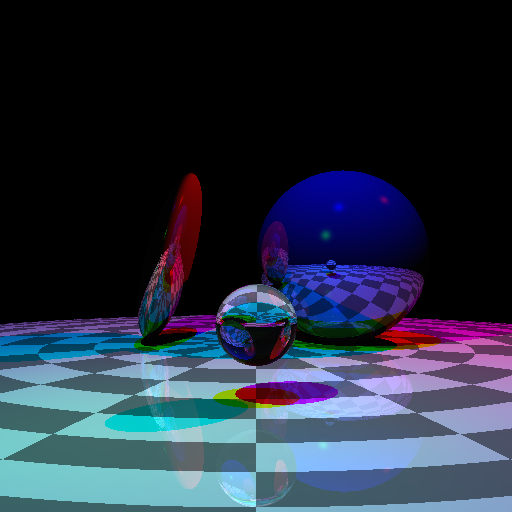
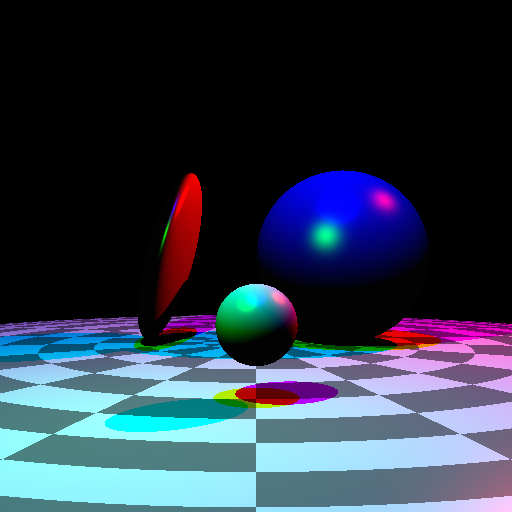
Updated `Material::get_reflected_energy` to use the proper Phong reflection model.

diff --git a/src/scene/mod.rs b/src/scene/mod.rs
@@ -42,8 +42,8 @@ impl Scene {
     }
 }
 
-fn lambert(light_dir: &Vector3, normal: &Vector3, color: &Color) -> Color {
-    light_dir.dot(normal) * color
+fn lambert(light_dir: &Vector3, normal: &Vector3, light: &Color, surface: &Color) -> Color {
+    light_dir.dot(normal) * light * surface
 }
 
 fn phong(
@@ -51,15 +51,16 @@ fn phong(
     eye_dir: &Vector3,
     light_dir: &Vector3,
     normal: &Vector3,
-    color: &Color,
+    light: &Color,
+    surface: &Color,
 ) -> Color {
     let h = (eye_dir.norm() + light_dir.norm()).norm();
     let m_dot_h = normal.dot(&h);
 
     if m_dot_h < 0. {
-        0. * color
+        Color::black()
     } else {
-        m_dot_h.powf(power) * color
+        m_dot_h.powf(power) * light * surface
     }
 }
 
@@ -139,15 +140,17 @@ impl Material {
         }
     }
 
+    /// Use Phong reflection model to compute the intensity of light reflected
+    /// in the direction of the eye
     pub fn get_reflected_energy(
         &self,
         incoming: &Color,
         light_dir: &Vector3,
         i: &Intersection,
     ) -> Color {
-        let diffuse = lambert(&light_dir, &i.normal, &incoming) * (self.diffuse)(i.tex_coord);
-        let specular = phong(600., &i.eye_dir, &light_dir, &i.normal, &incoming) * (self.specular)(i.tex_coord);
-        (1. - self.reflectivity) * diffuse + self.reflectivity * specular
+        let diffuse = lambert(&light_dir, &i.normal, &incoming, &(self.diffuse)(i.tex_coord));
+        let specular = phong(60., &i.eye_dir, &light_dir, &i.normal, &incoming, &(self.specular)(i.tex_coord));
+        diffuse + specular
     }
 }
 

diff --git a/src/main.rs b/src/main.rs
@@ -137,7 +137,7 @@ fn trace_ray(scene: &Scene, ray: &Ray, reflections: usize) -> Color {
                 .iter()
                 .map(|(ldir, lenergy)| {
                     let fresnel = fresnel_reflection(&ldir, &i.normal, n1, n2);
-                    fresnel *
+                    //fresnel *
                     i.material
                         .get_reflected_energy(&lenergy, &ldir, &i)
                 })
@@ -176,7 +176,7 @@ fn trace_ray(scene: &Scene, ray: &Ray, reflections: usize) -> Color {
             };
 
             ambient + 
-            lights + reflected + refracted
+            lights// + reflected + refracted
         }
     }
 }
@@ -209,13 +209,15 @@ fn fresnel_reflection(light_dir: &Vector3, normal: &Vector3, n1: f32, n2: f32) -
     let m_dot_r = light_dir.dot(&normal);
     let r0 = ((n1 - n2) / (n1 + n2)) * ((n1 - n2) / (n1 + n2));
 
-    r0 + (1. - r0) * (1. - m_dot_r).powi(5)
+    r0 + (1. - r0) * (1. - m_dot_r).powi(5);
+    1.
 }
 
 /// Use Schlick's approximation to compute the amount of energy transmitted through a material
 /// (this is the energy which is not reflected)
 fn fresnel_refraction(light_dir: &Vector3, normal: &Vector3, n1: f32, n2: f32) -> f32 {
-    1. - fresnel_reflection(light_dir, normal, n1, n2)
+    1. - fresnel_reflection(light_dir, normal, n1, n2);
+    0.5
 }
 
 fn get_light_energy(scene: &Scene, i: &Intersection) -> Vec<(Vector3,Color)>{
